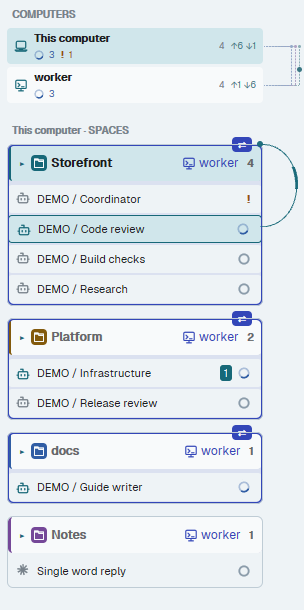
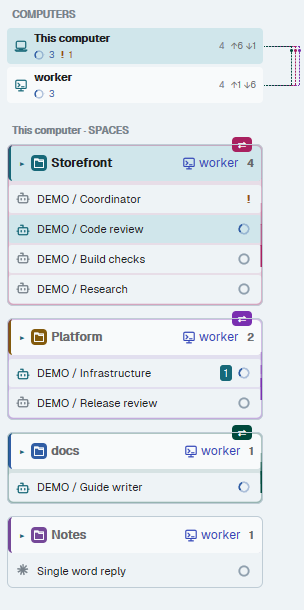
docs: explain animated collaboration borders and recapture merged release

diff --git a/README.md b/README.md
@@ -122,8 +122,9 @@ From the main computer, `hc send worker/t7 "message"` sends to that computer's t
 
 Workspaces belong to the same project when their names match; a trailing `(computer name)` naming the workspace's own computer is ignored, so `Docs (worker)` on `worker` matches `Docs` here. Unnamed workspaces (`~`) are skipped.
 
-- **A partner is always visible:** whenever that project has a workspace on another computer, its header shows a 14px computer icon and the partner's name at 12px, even with no work in progress. With more partners it reads, for example, `worker +1`; the tooltip lists every partner and its working-agent count. The collaboration colour is periwinkle: `#A9B8FF` on dark themes, `#3346B8` on light themes, adjusted for at least 4.5:1 text contrast on the header (win98 uses `#3043AF`).
+- **A partner is always visible:** whenever that project has a workspace on another computer, its header shows a 14px computer icon and the partner's name at 12px, even with no work in progress. With more partners it reads, for example, `worker +1`; the tooltip lists every partner and its working-agent count. The default collaboration colour is periwinkle: `#A9B8FF` on dark themes, `#3346B8` on light themes, adjusted for at least 4.5:1 text contrast on the header (win98 uses `#3043AF`).
 - **Working together now:** when this computer and at least one partner both have working agents on the project, the workspace gets a **2px solid outline, a 10% tint and a filled ⇄ badge** on its top edge. `⇄2`, `⇄3` … count the other computers working on it. These are overlays, so the layout stays still. When shared work ends, the workspace returns to its usual appearance with the partner name still visible; the badge fades with motion on.
+- **Border flow:** while shared work is active, the outline gently breathes. A send between that group's computers continues into a comet around the workspace border after the 1.6-second packet travel: two 3.6-second laps, then breathing again. Active group borders, badges and computer-row pipes use one of four theme-aware colours with staggered breathing periods; colours repeat beyond four groups. At most three groups show comets at once. **Motion off** keeps the border still, and ending shared work removes the animation.
 - **Find the other side:** hover a workspace to outline and tint its partner computer rows; hover a computer row to highlight its partner workspaces. Workspace partner names and shared-work marks are independent of the computer-list pipes' four-link limit. Orange needs-you / approval-waiting marks remain visible.
 
 The computer list separately draws up to four right-angle dashed pipes in a fixed right margin: for shared work, or for a pair of computers for **five minutes after their last send**. The ↑/↓ counts still cover the **last ten minutes**. A shared-work mark shows simultaneous activity on the same project; a send link shows a send event. Neither proves that a particular message was delivered or read.
@@ -136,7 +137,7 @@ The computer list separately draws up to four right-angle dashed pipes in a fixe
 | --- | --- |
 | ![Several shared projects and an idle Notes partner in the dark theme](docs/images/collab-multi-dark.png) | ![Several shared projects and an idle Notes partner in the light theme](docs/images/collab-multi-light.png) |
 
-Native app captures on Windows 11, using `sixfold-night` / `sixfold-day` and demo workspaces. Only the `worker` computer and its sidebar data (including send events) are synthetic. In the multiple-group views, Notes has a partner but no shared work in progress, so its header keeps the partner name without an active border or badge.
+Native app captures during border flow on Windows 11, using `sixfold-night` / `sixfold-day` and demo workspaces. Only the `worker` computer and its sidebar data (including send events) are synthetic. In the multiple-group views, Notes has a partner but no shared work in progress, so its header keeps the partner name without an active border or badge.
 
 ### Sends between computers
 
